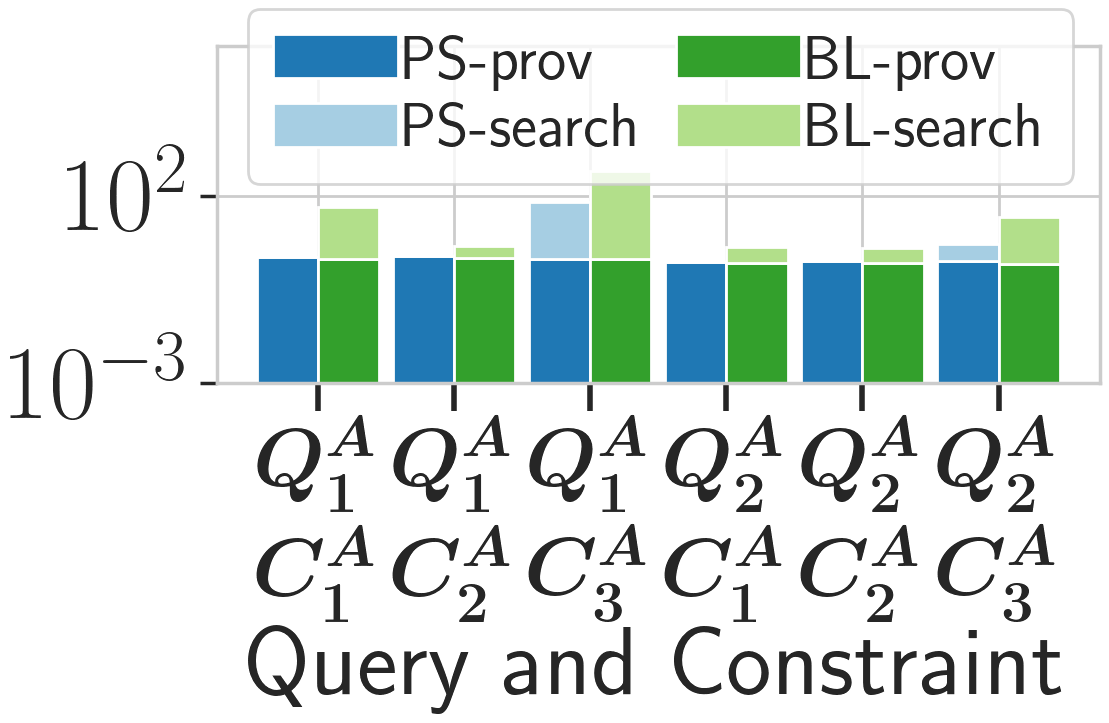
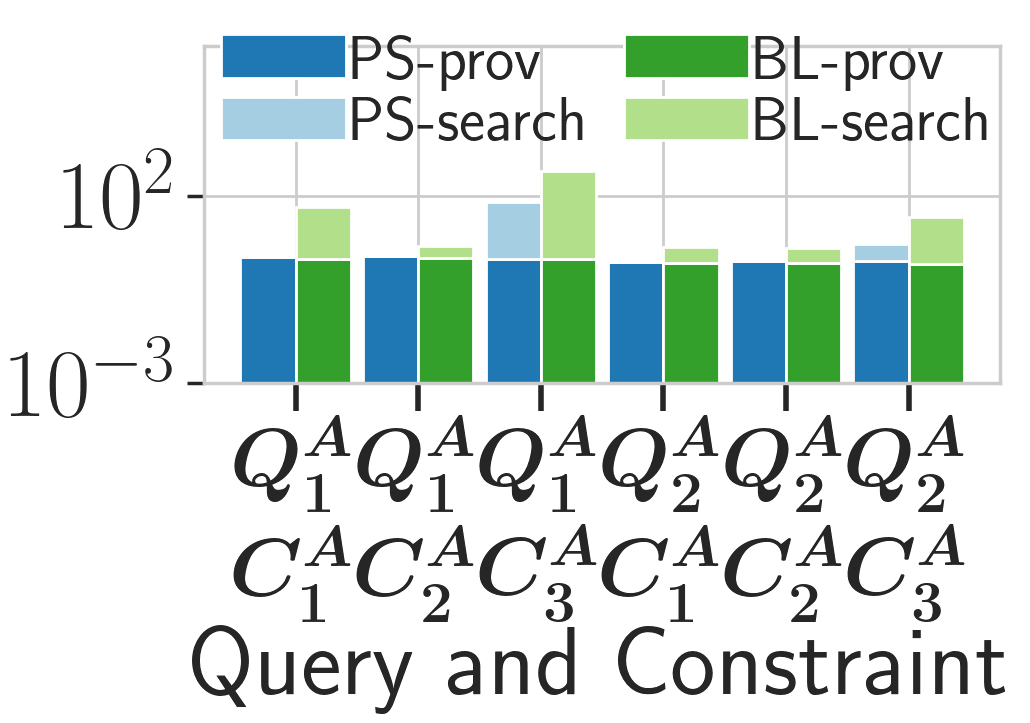
exp ACSIncome running time fix fig

diff --git a/Experiment/ACSIncome/whole_data/running_time2/fig.py b/Experiment/ACSIncome/whole_data/running_time2/fig.py
@@ -19,7 +19,7 @@ plt.rc('font', size=70, weight='bold')
 color = ['C1', 'C0', 'C3', 'C2']
 label = ['PS-prov', "PS-search", "BL-prov", "BL-search"]
 
-f_size = (13, 10)
+f_size = (12, 10)
 
 x_list = list()
 x_naive = list()
@@ -77,14 +77,14 @@ x_list = ['\\boldmath$Q^A_1$\n\\boldmath$C^A_1$', '\\boldmath$Q^A_1$\n\\boldmath
 plt.ylim(0.001, 1000000)
 
 plt.xticks(np.arange(0, 6) + bar_width/2, x_list, rotation=0, fontsize=60)
-plt.yticks(fontsize=75, weight='bold')
+plt.yticks(fontsize=70, weight='bold')
 
 plt.xlabel('Query and Constraint', fontsize=70, weight='bold')
 # plt.ylabel('Running time (s)')
 plt.yscale('log')
-lgnd = plt.legend(loc='upper left', bbox_to_anchor=(0, 1.2), fontsize=45,
-                  ncol=2, labelspacing=0.2,
-                  handletextpad=0.1, markerscale=0.5, columnspacing=0.5)
+lgnd = plt.legend(loc='upper left', bbox_to_anchor=(-0.05, 1.2), fontsize=45,
+                  ncol=2, labelspacing=0.1,
+                  handletextpad=0.1, markerscale=0.5, columnspacing=0.5, frameon=False)
 
 plt.tight_layout()
 plt.savefig("ACSIncome_time.png", bbox_inches='tight')
